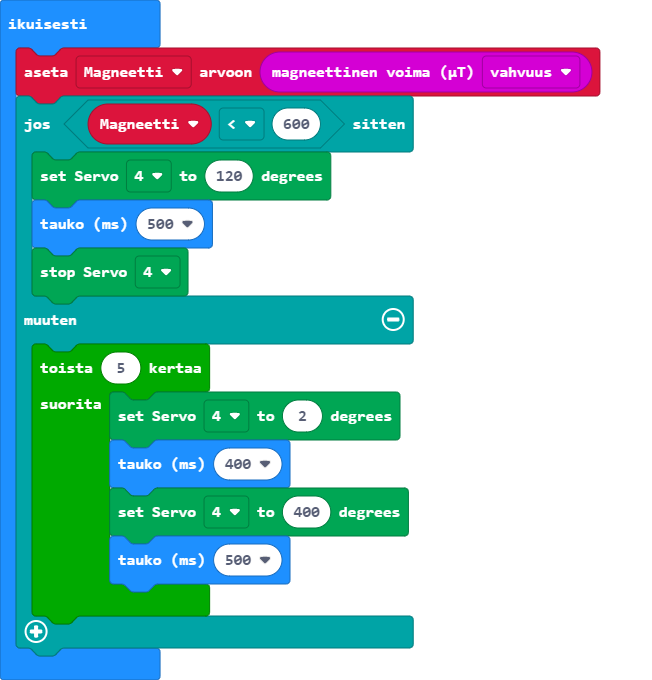
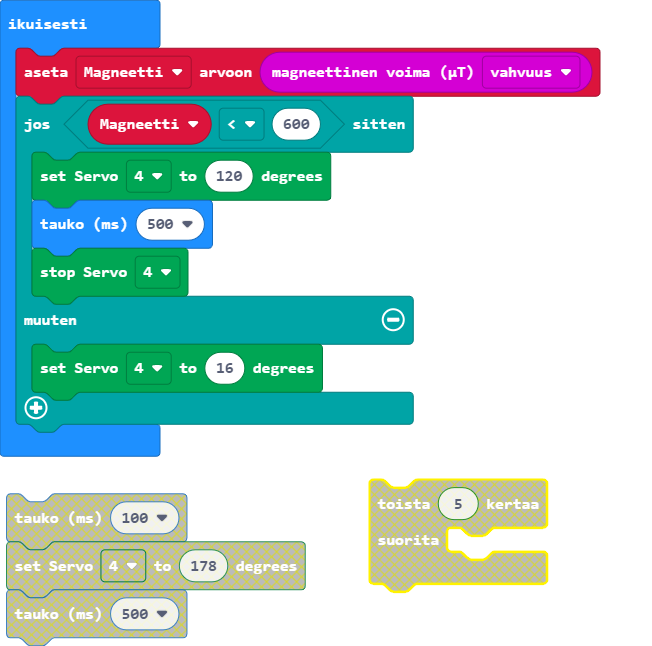
Päivitys main.blocks, main.ts

diff --git a/main.ts b/main.ts
@@ -6,11 +6,6 @@ basic.forever(function () {
         basic.pause(500)
         Kitronik_Robotics_Board.servoStop(Kitronik_Robotics_Board.Servos.Servo4)
     } else {
-        for (let index = 0; index < 5; index++) {
-            Kitronik_Robotics_Board.servoWrite(Kitronik_Robotics_Board.Servos.Servo4, 2)
-            basic.pause(400)
-            Kitronik_Robotics_Board.servoWrite(Kitronik_Robotics_Board.Servos.Servo4, 400)
-            basic.pause(500)
-        }
+        Kitronik_Robotics_Board.servoWrite(Kitronik_Robotics_Board.Servos.Servo4, 16)
     }
 })
